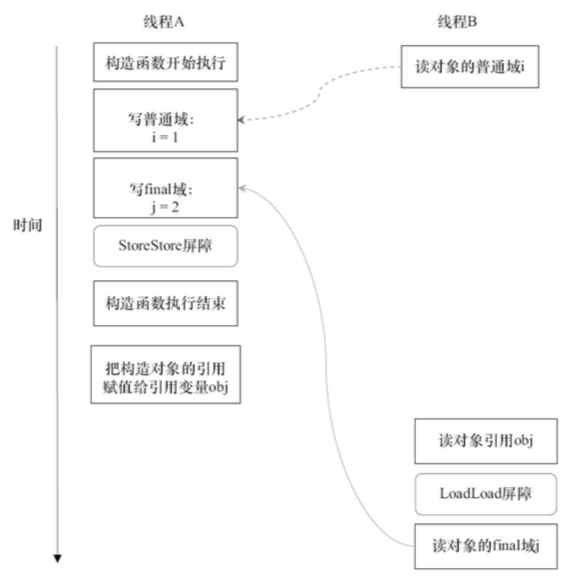
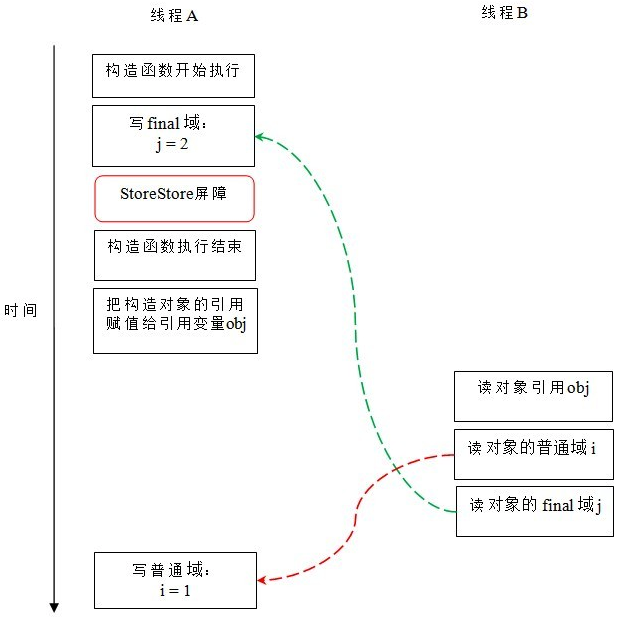
增加final介绍

diff --git a/java-note/j.u.c/final关键字.md b/java-note/j.u.c/final关键字.md
@@ -1,0 +1,200 @@
+# 原理介绍
+## 内存语义
+### 重新排序规则
++ 在构造函数内对一个final域的写入，与随后把这个被构造对象的引用赋值给一个引用变量，这两个操作之间不能重排序。
++ 初次读一个包含final域的对象的引用，与随后初次读这个final域，这两个操作之间不能重排序。
+
+#### 写final域的重排序规则
+> 写final域的重排序规则禁止把final域的写重排序到构造函数之外。这个规则的实现包含下面2个方面
+>
+> + JMM禁止编译器把final域的写重排序到构造函数之外。
+>
+> + 编译器会在final域的写之后，构造函数return之前，插入一个StoreStore屏障。这个屏障禁止处理器把final域的写重排序到构造函数之外。
+
+#### 读final域的重排序规则
+> 在一个线程中，初次读对象引用与初次读该对象包含的final域，JMM禁止处理器重排序这两个操作（注意，这个规则仅仅针对处理器）。编译器会在读final域操作的前面插入一个LoadLoad屏障。
+> 读final域的重排序规则可以确保：在读一个对象的final域之前，一定会先读包含这个final域的对象的引用。
+
+#### 引用类型final域的重排序规则
+> 在构造函数内对一个final引用的 **对象的成员域的写入**，与随后在构造函数外把这个被构造对象的引用赋值给一个引用变量，这两个操作之间不能重排序。
+
+
+# 代码分析
+```
+public class FinalExample {
+    int i;                            //普通变量
+    final int j;                      //final变量
+    static FinalExample obj;
+
+    public void FinalExample () {     //构造函数
+        i = 1;                        //写普通域
+        j = 2;                        //写final域
+    }
+
+    public static void writer () {    //写线程A执行
+        obj = new FinalExample ();
+    }
+
+    public static void reader () {       //读线程B执行
+        FinalExample object = obj;       //读对象引用
+        int a = object.i;                //读普通域
+        int b = object.j;                //读final域
+    }
+}
+```
+
+## 写final域的重排序规则分析
+writer ()方法只包含一行代码：finalExample = new FinalExample ()。
+
+> 这行代码包含两个步骤：
+> + 构造一个FinalExample类型的对象；
+> + 把这个对象的引用赋值给引用变量obj。
+假设线程B读对象引用与读对象的成员域之间没有重排序（马上会说明为什么需要这个假设）
+
+### 可能的执行时序
+![final-write](https://github.com/alanzhang211/learning-note/raw/master/img/final-write.png)
+
+在上图中，写普通域的操作被编译器重排序到了构造函数之外，读线程B错误的读取了普通变量i初始化之前的值。而写final域的操作，被写final域的重排序规则“限定”在了构造函数之内，读线程B正确的读取了final变量初始化之后的值。
+
+## 读final域的重排序规则分析
+> reader()方法包含三个操作：
+> + 初次读引用变量obj。
+> + 初次读引用变量obj指向对象的普通域j。
+> + 初次读引用变量obj指向对象的final域i。
+
+
+### 可能的执行时序
+> 假设写线程A没有发生任何重排序，同时程序在不遵守间接依赖的处理器上执行。
+
+![final-read](https://github.com/alanzhang211/learning-note/raw/master/img/final-read.png)
+
+在上图中，读对象的普通域的操作被处理器重排序到读对象引用之前。读普通域时，该域还没有被写线程A写入，这是一个错误的读取操作。而读final域的重排序规则会把读对象final域的操作“限定”在读对象引用之后，此时该final域已经被A线程初始化过了，这是一个正确的读取操作。
+
+## final域是引用类型分析
+```
+public class FinalReferenceExample {
+final int[] intArray;                     //final是引用类型
+static FinalReferenceExample obj;
+
+public FinalReferenceExample () {        //构造函数
+    intArray = new int[1];              //1
+    intArray[0] = 1;                   //2
+}
+
+public static void writerOne () {          //写线程A执行
+    obj = new FinalReferenceExample ();  //3
+}
+
+public static void writerTwo () {          //写线程B执行
+    obj.intArray[0] = 2;                 //4
+}
+
+public static void reader () {              //读线程C执行
+    if (obj != null) {                    //5
+        int temp1 = obj.intArray[0];       //6
+    }
+}
+}
+```
+> 对上面的示例程序，我们假设首先线程A执行writerOne()方法，执行完后线程B执行writerTwo()方法，执行完后线程C执行reader ()方法。
+
+### 可能的执行时序
+
+![final-ref](https://github.com/alanzhang211/learning-note/raw/master/img/final-ref.png)
+
+在上图中，1是对final域的写入，2是对这个final域引用的对象的成员域的写入，3是把被构造的对象的引用赋值给某个引用变量。这里除了前面提到的1不能和3重排序外，2和3也不能重排序。
+
+JMM可以确保读线程C至少能看到写线程A在构造函数中对final引用对象的成员域的写入。即C至少能看到数组下标0的值为1。而写线程B对数组元素的写入，读线程C可能看的到，也可能看不到。JMM不保证线程B的写入对读线程C可见，因为写线程B和读线程C之间存在数据竞争，此时的执行结果不可预知。
+
+如果想要确保读线程C看到写线程B对数组元素的写入，写线程B和读线程C之间需要使用同步原语（lock或volatile）来确保内存可见性。
+
+
+# 应用场景
+> final有三种使用场景，分别是修饰变量、方法和类，无论哪种修饰，一旦声明为final类型，你将不能改变这个引用了，编译器会检查代码，如果你试图再次初始化，编译器会报错。将类、方法、变量声明为final能够提高性能，这样JVM就有机会进行估计，然后优化。
+
+## 修饰变量
+当final修饰一个变量的时候一般把他作为常量，通常和static关键字配合使用。
+
+```
+public static final String LOAN = "loan";
+LOAN = new String("loan") //invalid compilation error
+```
+
+## 修饰方法
+当一个方法被final修饰后，表示该方法不能被子类重写，final方法有一个好处是比非final方法要快，因为在编译时已经静态绑定了，不需要在运行时在动态绑定。
+```
+class PersonalLoan{
+    public final String getName(){
+        return "personal loan";
+    }
+}
+
+class CheapPersonalLoan extends PersonalLoan{
+    @Override
+    public final String getName(){
+        return "cheap personal loan"; //compilation error: overridden method is final
+    }
+}
+```
+
+## 修饰类
+当一个类被final修饰后，表示该类是完整的，不能被继承，例如Java中String、Integer类都是final类。
+```
+ final class PersonalLoan{
+
+    }
+
+    class CheapPersonalLoan extends PersonalLoan{  //compilation error: cannot inherit from final class
+
+}
+```
+
+# 实战分析
+1. 不允许被继承的类，如：String 类。
+2. 不允许修改引用的域对象，如：POJO 类的域变量。
+3. 不允许被重写的方法，如：POJO 类的 setter 方法。
+4. 避免局部变量在使用过程中被重新复制。可以在定义的时候，使用final进行修饰。
+5. 避免上下文重复使用一个变量，使用 final描述可以强制重新定义一个变量，方便更好地进行重构。
+
+# FAQ
+1. 为什么final引用不能从构造函数内“逸出”？
+
+写final域的重排序规则可以确保：在引用变量为任意线程可见之前，该引用变量指向的对象的final域已经在构造函数中被正确初始化过了。其实要得到这个效果，还需要一个保证：在构造函数内部，不能让这个被构造对象的引用为其他线程可见，也就是对象引用不能在构造函数中“逸出”。
+
+**如：**
+```
+public class FinalReferenceEscapeExample {
+final int i;
+static FinalReferenceEscapeExample obj;
+
+public FinalReferenceEscapeExample () {
+    i = 1;                              //1写final域
+    obj = this;                          //2 this引用在此“逸出”
+}
+
+public static void writer() {
+    new FinalReferenceEscapeExample ();
+}
+
+public static void reader {
+    if (obj != null) {                     //3
+        int temp = obj.i;                 //4
+    }
+}
+}
+```
+假设一个线程A执行writer()方法，另一个线程B执行reader()方法。这里的操作2使得对象还未完成构造前就为线程B可见。即使这里的操作2是构造函数的最后一步，且即使在程序中操作2排在操作1后面，执行read()方法的线程仍然可能无法看到final域被初始化后的值，因为这里的操作1和操作2之间可能被重排序。实际的执行时序可能如下图所示：
+
+![final-out](https://github.com/alanzhang211/learning-note/raw/master/img/final-out.png)
+
+2. 说说final关键字的好处。
+
++ final关键字提高了性能。JVM和Java应用都会缓存final变量。
++ final变量可以安全的在多线程环境下进行共享，而不需要额外的同步开销。
++ 使用final关键字，JVM会对方法、变量及类进行优化。
+
+---
+*参考资料：*
++ http://ifeve.com/java-memory-model/
++ 《阿里巴巴 Java 开发手册》
++ 《java并发编程的艺术》
